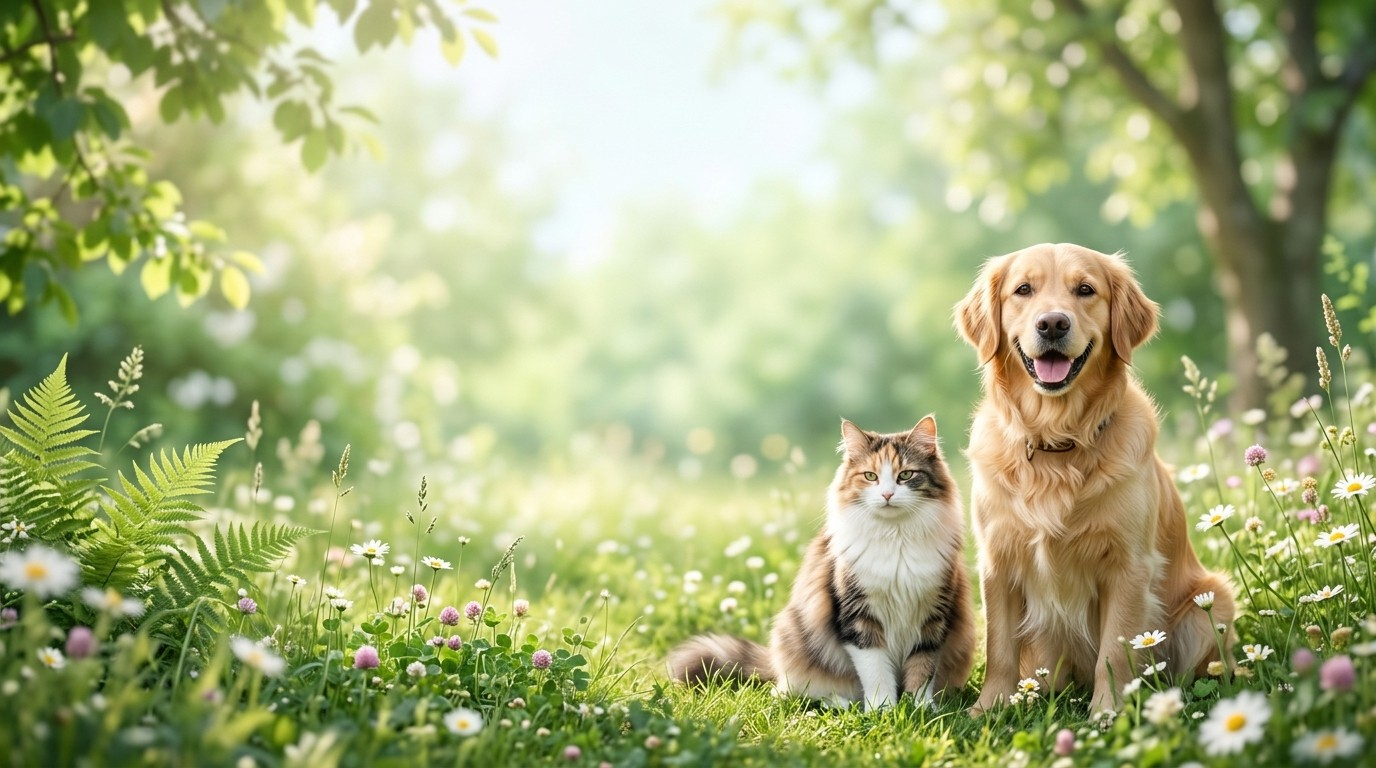
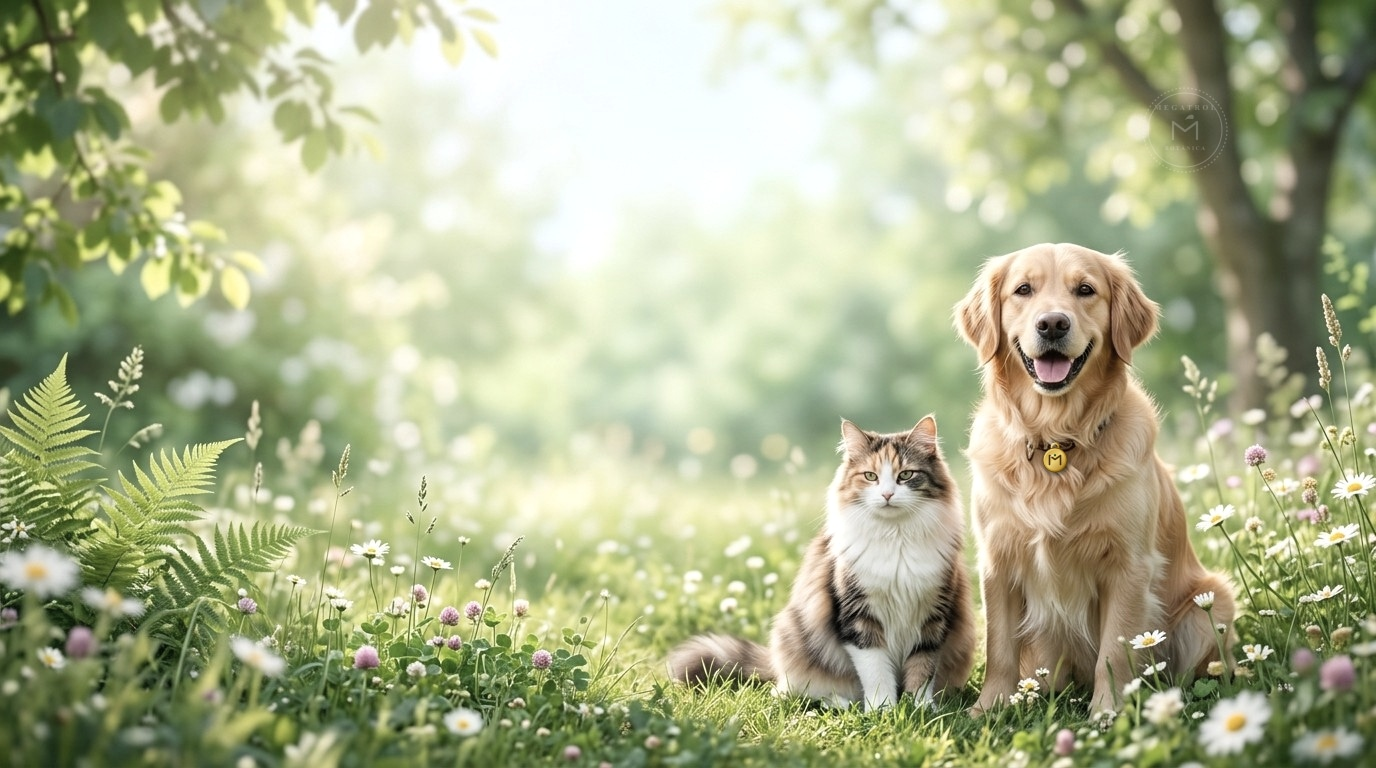
feat: restaurar fondo previo de la web y aplicar fijacion de marca sutil desaturada a la imagen del perrito y el michi

diff --git a/src/pages/Home/Home.css b/src/pages/Home/Home.css
@@ -14,11 +14,11 @@
   background-image: 
     linear-gradient(90deg, 
       #ffffff 0%, 
-      #ffffff 26%, 
-      rgba(255, 255, 255, 0.96) 36%, 
-      rgba(255, 255, 255, 0.55) 45%, 
-      rgba(255, 255, 255, 0.16) 60%, 
-      rgba(255, 255, 255, 0.10) 100%
+      #ffffff 28%, 
+      rgba(255, 255, 255, 0.95) 36%, 
+      rgba(255, 255, 255, 0.50) 44%, 
+      rgba(255, 255, 255, 0.08) 50%, 
+      rgba(255, 255, 255, 0.0) 54%
     ),
     url('/images/hero-banner-pets.jpg');
   background-size: cover;
@@ -26,38 +26,6 @@
   border: 1px solid rgba(0, 132, 199, 0.18);
   box-shadow: 0 16px 45px rgba(0, 132, 199, 0.08);
   padding: 56px 56px 48px;
-}
-
-/* Minimalist Brand Imprint Watermark in Hero */
-.hero-brand-watermark {
-  position: absolute;
-  top: 22px;
-  right: 42px;
-  display: flex;
-  flex-direction: column;
-  align-items: flex-end;
-  pointer-events: none;
-  user-select: none;
-  z-index: 1;
-}
-
-.hero-brand-text {
-  font-family: var(--font-sans);
-  font-size: clamp(54px, 8.5vw, 115px);
-  font-weight: 900;
-  letter-spacing: 0.14em;
-  color: rgba(0, 132, 199, 0.045);
-  line-height: 0.85;
-  text-transform: uppercase;
-}
-
-.hero-brand-subtext {
-  font-size: clamp(9px, 0.95vw, 11px);
-  font-weight: 800;
-  letter-spacing: 0.3em;
-  color: rgba(12, 43, 66, 0.07);
-  text-transform: uppercase;
-  margin-top: 4px;
 }
 
 /* Ambient glowing orbs inside hero card */

diff --git a/src/pages/Home/Home.tsx b/src/pages/Home/Home.tsx
@@ -403,12 +403,6 @@ const Home = () => {
             <div className="hero-orb hero-orb-blue"></div>
             <div className="hero-orb hero-orb-green"></div>
 
-            {/* Subtle Minimalist Brand Watermark */}
-            <div className="hero-brand-watermark" aria-hidden="true">
-              <span className="hero-brand-text">MEGATROL</span>
-              <span className="hero-brand-subtext">INOBAZZ PHARMA • VETERINARIA BOTÁNICA</span>
-            </div>
-
             <div className="hero-grid">
               <div className="hero-content">
                 <div className="hero-badge-pill">

diff --git a/src/index.css b/src/index.css
@@ -52,7 +52,7 @@ body {
   background-color: #fbfdfc;
   background-image: url('/images/pet-pattern.svg');
   background-repeat: repeat;
-  background-size: 240px 240px;
+  background-size: 180px 180px;
   -webkit-font-smoothing: antialiased;
 }
 
